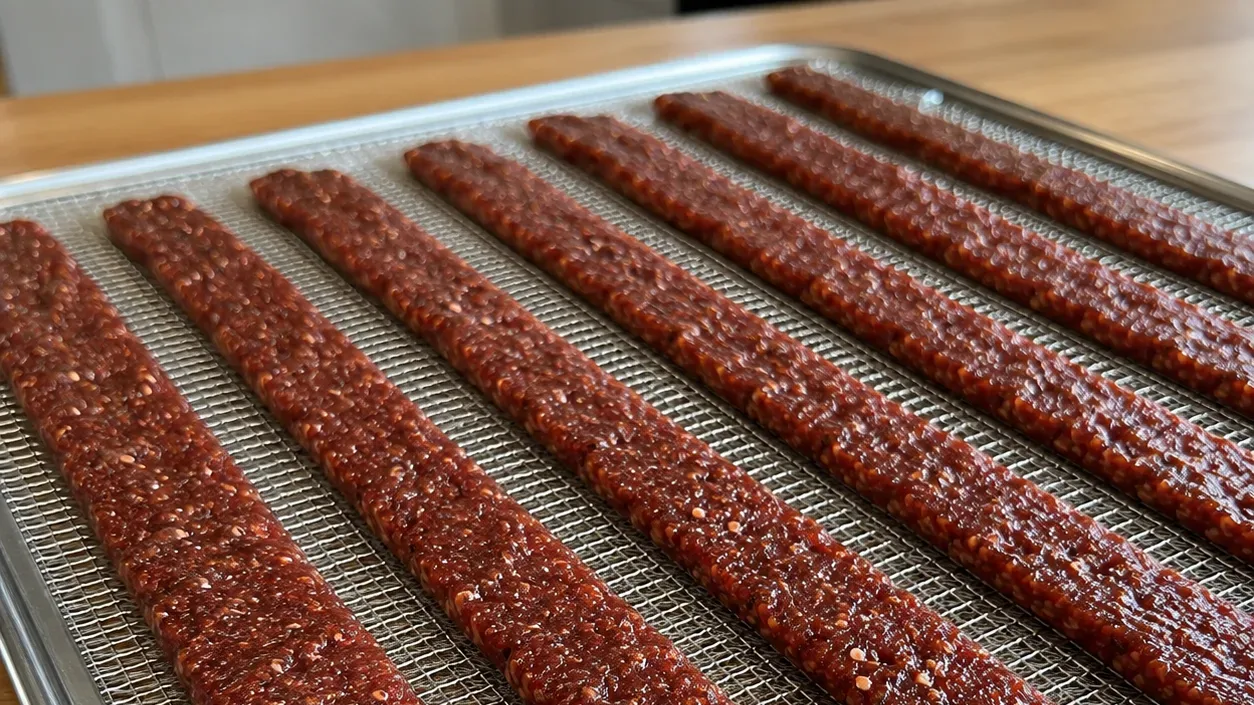
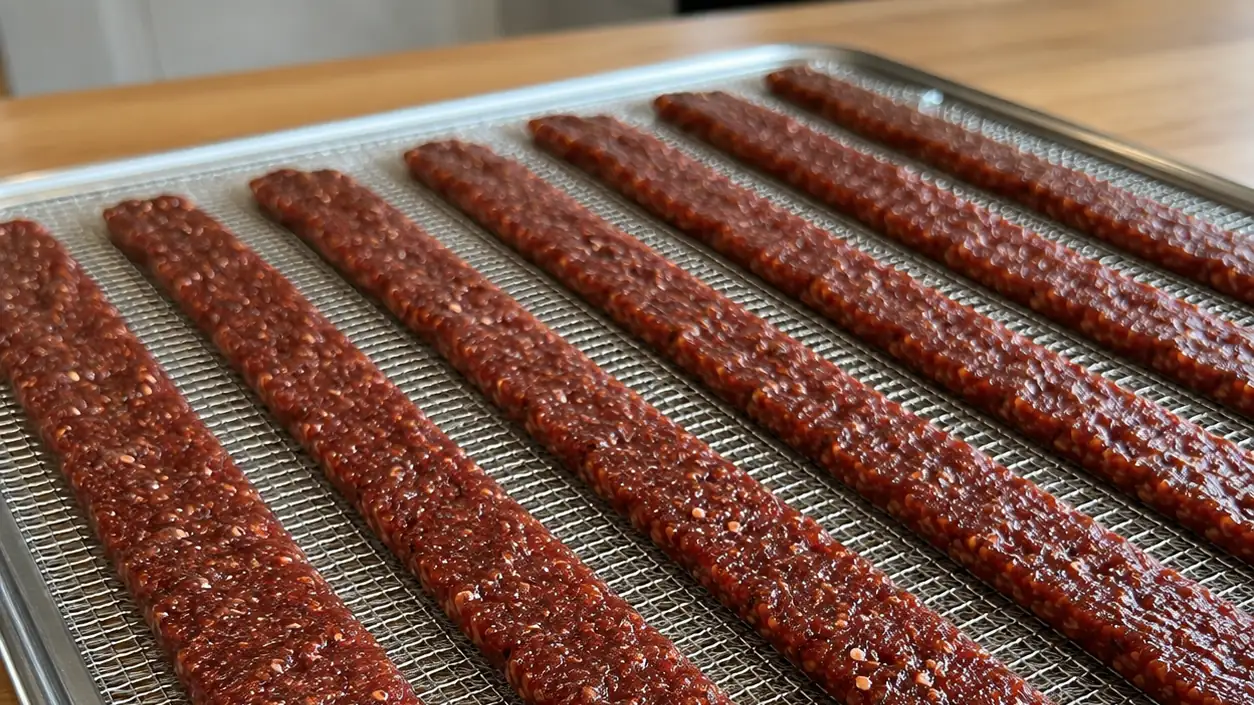
On-page SEO audit fixes for /jerky-gun/ (long-form category)
Audited /jerky-gun/ against references/on-page-seo.md (15 categories,
80+ items). Fixed the four gaps that applied:

Long-form (category 15):
- Added <nav class=".toc"> block after answer-box with 12 jump links
- Added id="…" to all 12 H2s so the TOC anchors resolve
- Added id="top" on H1 + <p class=".back-to-top"> link at page end
- Added .toc + .back-to-top styles to global.css (2-column TOC on
  desktop, single column under 640px)

External links (category 8):
- Added a second authoritative external link (USDA FSIS Ground Beef
  and Food Safety) in the ground-beef section. Now at 2/3 target.

Images (category 6):
- Re-encoded jerky-gun-recipe base + 3 schema crops + 3 responsive
  variants at q65 to bring file sizes closer to 200 KB spec target.
  Real users on mobile now get 62-101 KB via -480/-640 variants.
  Base and 1x1 crop remain at 267 KB due to genuine detail density
  (7 textured strips on wire mesh) — further compression would
  introduce visible artifacts.

References:
- Saved on-page-seo.md into references/ so future page-generation
  sessions can find it at the location the master prompt expects.

diff --git a/src/styles/global.css b/src/styles/global.css
@@ -399,6 +399,58 @@ blockquote { border-left: 4px solid var(--clr-primary); padding: .75rem 1.5rem; 
 }
 .answer-box p { margin-bottom: 0; }
 
+/* ===== TABLE OF CONTENTS (long-form pillars) ===== */
+.toc {
+  background: #fff;
+  border: 1px solid #e5e7eb;
+  border-radius: var(--radius);
+  padding: 1.25rem 1.75rem;
+  margin: 1.5rem 0 2.5rem;
+}
+.toc__title {
+  font-family: var(--font-body);
+  font-weight: 700;
+  font-size: 0.85rem;
+  letter-spacing: 0.08em;
+  text-transform: uppercase;
+  color: var(--clr-primary);
+  margin: 0 0 0.75rem;
+}
+.toc ol {
+  margin: 0;
+  padding-left: 1.25rem;
+  columns: 2;
+  column-gap: 2rem;
+}
+.toc li {
+  break-inside: avoid;
+  margin: 0.25rem 0;
+  font-size: 0.95rem;
+}
+.toc a {
+  color: #1f2937;
+  text-decoration: none;
+  border-bottom: 1px solid transparent;
+}
+.toc a:hover { border-bottom-color: var(--clr-accent); }
+@media (max-width: 640px) {
+  .toc ol { columns: 1; }
+}
+
+/* ===== BACK TO TOP (long-form pillars) ===== */
+.back-to-top {
+  margin: 2.5rem 0 0;
+  text-align: right;
+  font-size: 0.9rem;
+}
+.back-to-top a {
+  color: var(--clr-primary);
+  text-decoration: none;
+  font-weight: 700;
+  border-bottom: 1px solid transparent;
+}
+.back-to-top a:hover { border-bottom-color: var(--clr-primary); }
+
 /* ===== RECIPE IMAGES ===== */
 .recipe-hero-img {
   width: 100%;

diff --git a/references/on-page-seo.md b/references/on-page-seo.md
@@ -1,0 +1,132 @@
+# On-Page SEO — Do These On Every Page
+
+> The comprehensive on-page SEO checklist: **15 categories · 80+ items** — the complete on-page spec for blog posts and service pages.
+> **Every page-generation task reads this file before generating any page.** Technical SEO (sitemaps, robots.txt, Core Web Vitals) is covered separately.
+
+---
+
+## 1. Head & Metadata — what Google indexes first
+- [ ] **Title tag** — 50–60 chars, primary keyword near the start.
+- [ ] **Meta description** — 150–160 chars, keyword + benefit + soft CTA.
+- [ ] **Canonical URL** set to prevent duplicates.
+- [ ] **Open Graph** — `og:title`, `og:description`, `og:image` (1200×630), `og:url`, `og:type`.
+- [ ] **Twitter Card** — `summary_large_image`, title, description, image.
+- [ ] **Language** attribute on `<html>` (e.g. `lang="en"`).
+- [ ] **Viewport meta** tag for responsive rendering.
+- [ ] **Favicon** + `apple-touch-icon`.
+- [ ] **Charset meta** — `<meta charset="utf-8">`.
+
+## 2. URL Structure — clean, readable, keyword-forward
+- [ ] **Short slug** — under 60 chars.
+- [ ] **Primary keyword** in the slug.
+- [ ] **Hyphens** only — never underscores.
+- [ ] **Lowercase** only.
+- [ ] **No stop words** ("the", "a", "of") unless necessary.
+- [ ] **Logical hierarchy** — `/services/[slug]`, `/blog/[slug]`.
+
+## 3. Headings — structure for skimmers & bots
+- [ ] **Exactly one H1** per page, contains primary keyword.
+- [ ] **Logical H2 → H3** hierarchy — never skip levels.
+- [ ] **H2s** use supporting keywords + questions from the cluster.
+- [ ] **No keyword stuffing** — write naturally.
+
+## 4. Copy & Body — answer the query, fast
+- [ ] **Primary keyword** in the first 100 words.
+- [ ] **Direct answer** to the query in the first paragraph.
+- [ ] **Length** matches SERP average (within 20% of top-3).
+- [ ] **Short paragraphs** (1–4 sentences).
+- [ ] **Readability** — 8th–10th grade level.
+- [ ] **Active voice** preferred.
+- [ ] **Bold key phrases** — sparingly.
+- [ ] **Bullets & numbered lists** where appropriate.
+
+## 5. FAQ Section — every blog post
+- [ ] **4–8 questions** from the SEMrush Questions tab + "People Also Ask".
+- [ ] **Direct answers** — 2–4 sentences each.
+- [ ] **FAQ schema** (JSON-LD) applied.
+
+## 6. Images — every image is a ranking signal
+- [ ] **Alt text** describes image + keyword where natural.
+- [ ] **Filenames** — descriptive, hyphens, e.g. `emergency-plumber-toronto.webp`.
+- [ ] **WebP**, compressed under 200 KB.
+- [ ] **Width/height** attributes specified — prevents CLS.
+- [ ] **Lazy loading** (`loading="lazy"`) for below-fold.
+- [ ] **Responsive srcset** where needed.
+- [ ] **Featured/hero image** for social sharing.
+
+## 7. Internal Links — pass authority across the site
+- [ ] **3–5 internal links** per post.
+- [ ] Link to **related blog posts** & **relevant service pages**.
+- [ ] **Descriptive anchor text** — never "click here" or "read more".
+- [ ] **Contextually placed** in body copy.
+- [ ] **Breadcrumbs** on every page.
+
+## 8. External Links — cite authority, don't hoard it
+- [ ] **2–3 external links** to authoritative sources (.gov, .edu, major industry).
+- [ ] **Relevant** to the topic.
+- [ ] Open in **new tab** with `rel="noopener"`.
+- [ ] `rel="nofollow"` for sponsored links.
+
+## 9. Schema Markup — JSON-LD in `<head>`
+- [ ] **Article** schema on blog posts.
+- [ ] **LocalBusiness** schema — most specific subtype (Plumber, Dentist…).
+- [ ] **Service** schema on service pages.
+- [ ] **FAQ** schema wherever a FAQ section exists.
+- [ ] **BreadcrumbList** schema on every page.
+- [ ] **Organization** schema site-wide.
+- [ ] **Author/Person** schema for bylines.
+
+## 10. E-E-A-T Signals — Experience · Expertise · Authority · Trust
+- [ ] **Author byline** with name on every blog post.
+- [ ] **Author bio** with credentials (years, qualifications).
+- [ ] Link to **author's dedicated page**.
+- [ ] **Published date** displayed.
+- [ ] **"Last updated" date** when refreshed.
+- [ ] **Real stories, numbers, opinions** from the business voice file.
+- [ ] **Cite authoritative sources.**
+- [ ] **About page** with full company credentials.
+- [ ] **Contact page** — real address, phone, hours.
+
+## 11. Accessibility — a11y signals = SEO signals
+- [ ] **Semantic HTML5** — `<header>`, `<nav>`, `<main>`, `<article>`, `<footer>`.
+- [ ] **ARIA labels** on interactive elements where needed.
+- [ ] **Color contrast** meets WCAG AA (4.5:1 body text).
+- [ ] **Focus indicators** visible on interactive elements.
+- [ ] **Alt text** on all images (empty `alt=""` for decorative).
+- [ ] **Descriptive link text.**
+- [ ] **Skip-to-content** link for keyboard users.
+
+## 12. Mobile & Responsive — mobile-first indexing
+- [ ] **Responsive layout** (Tailwind handles this).
+- [ ] **Touch targets** minimum 48×48 px.
+- [ ] **Body font** minimum 16 px.
+- [ ] **No horizontal scroll** at any viewport.
+- [ ] **No intrusive interstitials.**
+
+## 13. Social Preview — shareable card
+- [ ] **OG image** optimized — 1200×630, under 1 MB.
+- [ ] **Twitter Card image** — 1200×600.
+- [ ] **Compelling `og:description`** — different from meta if valuable.
+
+## 14. Conversion Elements — capture the lead *(service pages only)*
+- [ ] **Primary CTA** above the fold.
+- [ ] **Phone number** with click-to-call (`tel:`).
+- [ ] **Multiple CTA placements** throughout the page.
+- [ ] **Trust signals** — reviews, ratings, licenses, years.
+- [ ] **Testimonials** with names (photos where possible).
+- [ ] **Service-area coverage** listed.
+- [ ] **Business hours** displayed.
+- [ ] **Physical address** with embedded map.
+
+## 15. Long-Form Content — 1500+ word posts
+- [ ] **Table of contents** with anchor links at the top.
+- [ ] **Jump links** for each H2.
+- [ ] **Back-to-top** button.
+
+---
+
+### How to use this file
+1. **Read this file before generating any page** (blog post or service page).
+2. Treat every box as a requirement unless a category is explicitly marked page-type-specific (e.g. category 14 = service pages only; category 15 = long-form only).
+3. In the QA gate, confirm each applicable category is satisfied before marking the page done.
+4. This is the **universal technical spec**; a keyword-specific reference (e.g. `keyword-aeo-seo-reference.md`) layers the per-topic details on top of it — they complement, not replace, each other.
